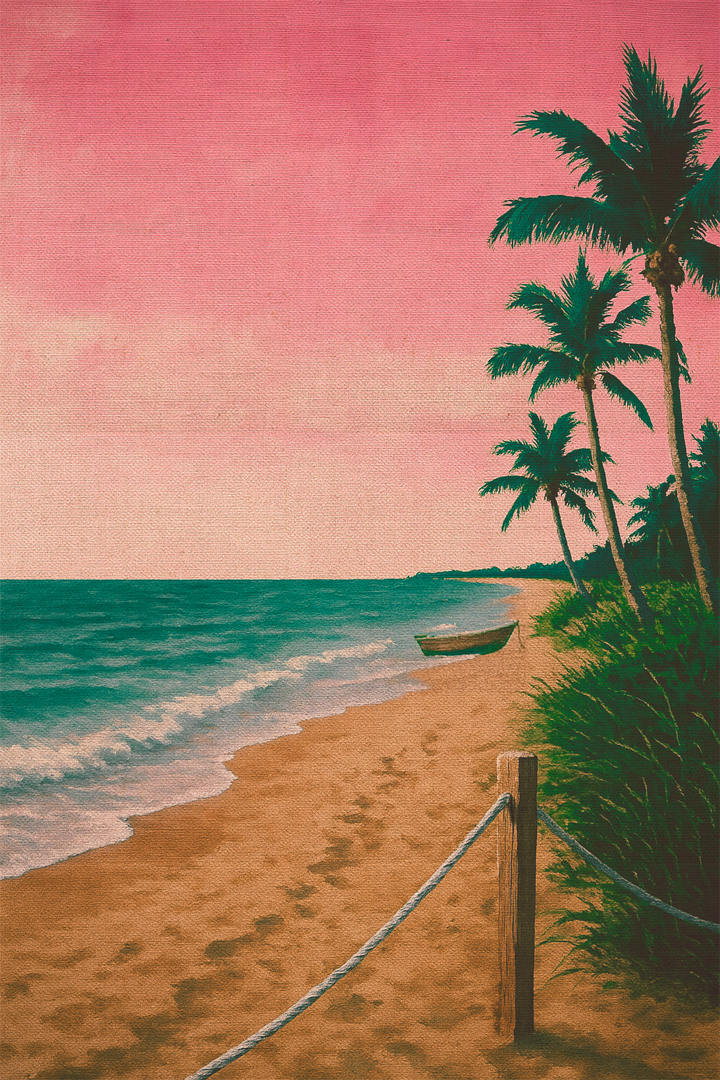
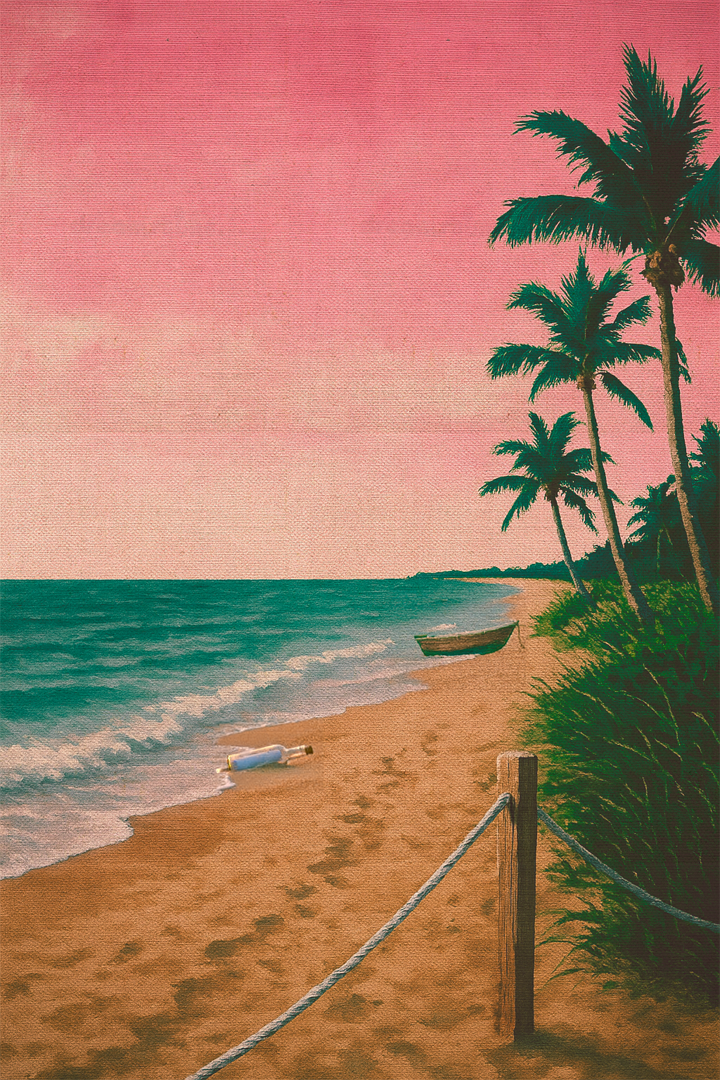
2310

Changed region(s): [[0.3056, 0.6417, 0.4583, 0.7333]]

diff --git a/script.js b/script.js
@@ -143,7 +143,7 @@ const scenes = {
         },
         conditionalImages: [
             {
-                check: () => gameState.inventory.includes('seen'),
+                check: () => gameState.inventory.includes('seen') && !gameState.inventory.includes('buoy'),
                 images: {
                     default: 'Photos/Render_Front_buoy.png',
                     stage2: 'Photos/Render_Front_buoy_rain.png',
@@ -510,6 +510,16 @@ const scenes = {
                 next: 'ocean',
                 item: null,
                 sound: 'splash'
+            },
+            {
+                x: 43,
+                y: 68,
+                width: 6,
+                height: 4,
+                type: 'inspect',
+                inspectImage: 'Photos/paper_site.png',
+                item: 'seen',
+                sound: 'paper'
             },
             {
                 x: 30,
